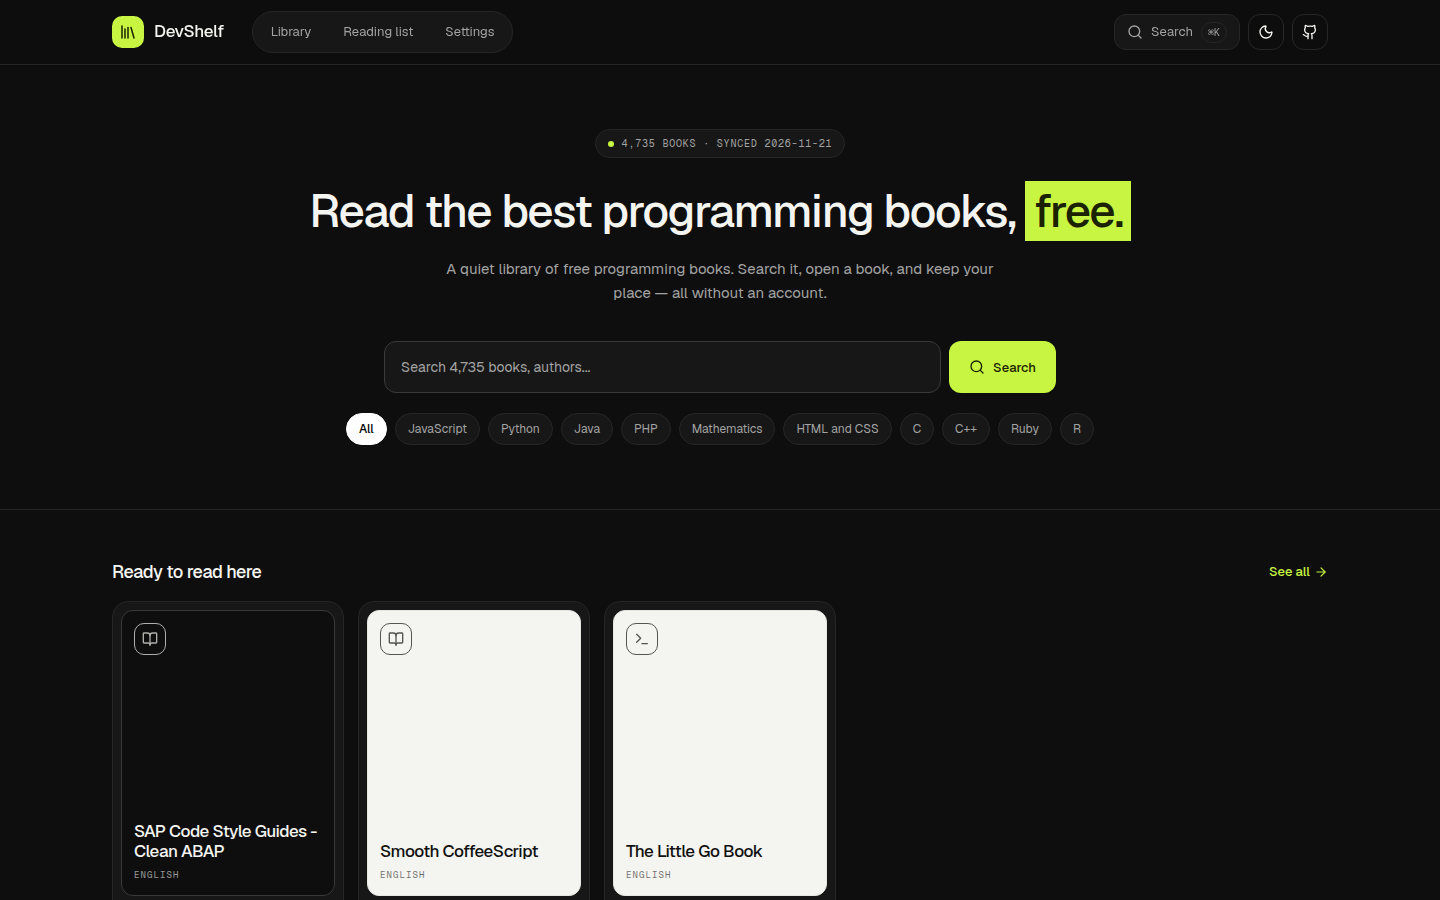
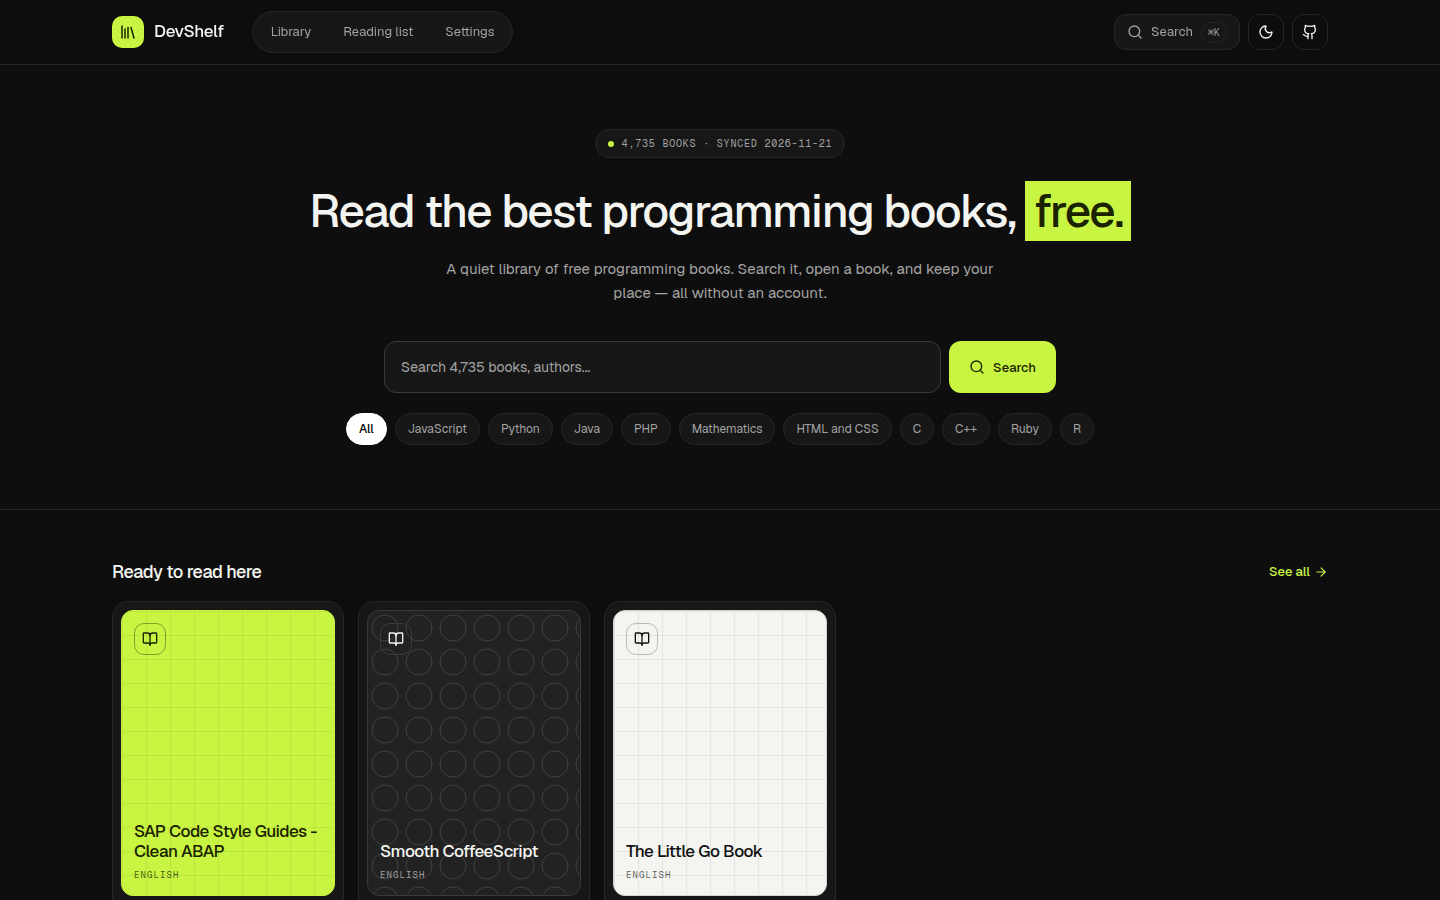
Align README with cover pipeline and current repo state

Changed region(s): [[0.0625, 0.6533, 0.4062, 0.9956], [0.4375, 0.6844, 0.4688, 0.7156]]

diff --git a/README.md b/README.md
@@ -17,7 +17,7 @@
   <img src="https://img.shields.io/badge/Next.js-16-black" alt="Next.js 16">
   <img src="https://img.shields.io/badge/TypeScript-strict-blue" alt="TypeScript strict">
   <img src="https://img.shields.io/badge/Tailwind-v4-38bdf8" alt="Tailwind CSS v4">
-  <img src="https://img.shields.io/badge/tests-8%20passing-brightgreen" alt="8 tests passing">
+  <img src="https://img.shields.io/badge/tests-16%20passing-brightgreen" alt="16 tests passing">
   <img src="https://img.shields.io/badge/static-export-orange" alt="Static export">
   <img src="https://img.shields.io/badge/data-CC%20BY%204.0-orange" alt="Data license CC BY 4.0">
   <img src="https://img.shields.io/badge/license-MIT-green" alt="MIT license">
@@ -44,10 +44,10 @@ Every record keeps its original URL, source file, line and heading. Titles, auth
 ## Screenshots
 
 <p align="center">
-  <img src="docs/screenshots/home.png" alt="DevShelf homepage with generated book covers" width="48%">
-  <img src="docs/screenshots/catalog.png" alt="Catalog with search, filters and typographic book cards" width="48%">
+  <img src="docs/screenshots/home.png" alt="DevShelf homepage with real and generated book covers" width="48%">
+  <img src="docs/screenshots/catalog.png" alt="Catalog with search, filters and real and generated covers" width="48%">
 </p>
-<p align="center"><sub>Homepage with live sync chip and generated covers · Catalog with 4,735 resources and local filters</sub></p>
+<p align="center"><sub>Homepage with live sync chip and book covers · Catalog with 4,735 resources, one real Open Library cover and local filters</sub></p>
 
 <p align="center">
   <img src="docs/screenshots/markdown-reader.png" alt="Markdown reader with table of contents and copyable code blocks" width="48%">
@@ -55,7 +55,7 @@ Every record keeps its original URL, source file, line and heading. Titles, auth
 </p>
 <p align="center"><sub>Markdown reader with 226-chapter TOC and code-block tools · PDF reader showing page 10 of 84</sub></p>
 
-All four images are captures of the deployed site at [hungpt99-dev.github.io/DevShelf](https://hungpt99-dev.github.io/DevShelf/), regenerated with `npm run capture:screenshots` after the UI restyle.
+All four images are captures of the current static export, regenerated with `npm run capture:screenshots http://127.0.0.1:4173/DevShelf` after the cover update. The live demo is deployed by the sync workflow; it may trail the latest commit until that workflow runs.
 
 ## Quick start
 
@@ -82,6 +82,7 @@ npm run validate:data # verify indexes, attribution and bundled content
 | --- | --- | --- |
 | **Ingest** | One pinned tarball of the upstream repository is parsed into normalized JSON; duplicates merge by stable ID. | Deterministic parser |
 | **Discover** | Local Fuse.js index powers instant search; filters cover language, category, format and reading availability. | Your query, in your browser |
+| **Covers** | Open Library matches are resolved at build time; strict title/author matching, generated art and a static SVG cover fill the gaps. | Validated match + your Settings toggle |
 | **Read** | Markdown, HTML and PDF providers render allowlisted content; everything else links to its original source. | Validated resource metadata |
 | **Remember** | Progress, bookmarks, list status and preferences are stored in Dexie/IndexedDB. | You, locally |
 | **Refresh** | A CI workflow detects upstream commits, validates data, commits changes and redeploys. | Upstream commit + schedule |
@@ -90,7 +91,7 @@ npm run validate:data # verify indexes, attribution and bundled content
 
 | Surface | Role | What it adds |
 | --- | --- | --- |
-| Home | Book-cover-first entry point | Sync chip, generated covers, catalog stats, deterministic featured shelves |
+| Home | Book-cover-first entry point | Sync chip, real or generated covers, catalog stats, deterministic featured shelves |
 | Explore | Full catalog | Search, filters, sort, availability, load-more, honest empty states |
 | Book detail | Provenance | Source file/line, license when stated, alternate links, related books |
 | Reader | Distraction-free reading | TOC, themes, font controls, keyboard nav, copyable code blocks, PDF zoom/pages, saved position |
@@ -107,6 +108,7 @@ npm run validate:data # verify indexes, attribution and bundled content
 | Unit tests | 16 passing | `npm test` |
 | Static build | exit code 0; 9,477 static pages | `npm run build` (output in `out/`) |
 | HTTP smoke checks | 21/21 | `npm run smoke` against a local `out/` server |
+| Cover matches in snapshot | 1 | `Object.keys(require("./public/data/covers.json")).length` |
 
 Counts are derived from the committed catalog snapshot, not typed into the UI. The homepage reads the same files.
 
@@ -119,6 +121,7 @@ Counts are derived from the committed catalog snapshot, not typed into the UI. T
 | `next.config.ts` | Static export and optional `NEXT_PUBLIC_BASE_PATH` for project Pages sites | [docs/DEPLOYMENT.md](docs/DEPLOYMENT.md) |
 | `public/data/*.json` | Generated catalog, categories, languages, readable map, metadata, sync history and cover URLs | [ARCHITECTURE.md](ARCHITECTURE.md) |
 | `scripts/cache/cover-misses.json` | Cover lookups that found no safe match; retried after 30 days or with `--force` | [docs/DATA_SOURCES.md](docs/DATA_SOURCES.md) |
+| `public/images/default-cover.svg` | Static last-resort cover when generation cannot run | [docs/DATA_SOURCES.md](docs/DATA_SOURCES.md) |
 | `docs/assets/` | Product mark and light/dark README banners | [README](#screenshots) |
 
 ## Automation
@@ -131,7 +134,7 @@ The sync workflow runs every 6 hours and on manual dispatch (`force=true` rebuil
 4. `npm run sync:covers` matches a bounded batch of new books against Open Library, caches misses and writes `public/data/covers.json`. A covers-only change still commits and redeploys.
 5. Except on forced manual runs, the dataset is committed and Pages are rebuilt only when records change. With `CLOUDFLARE_API_TOKEN` and `CLOUDFLARE_ACCOUNT_ID` set as repo secrets, the workflow also rebuilds for the site root and deploys to Cloudflare Pages (`devshelf-hungpt99`).
 
-Network or parse failures stop before any file is written, so the last known good dataset and deployment stay live. The app fetches only local static catalog files; it does not call GitHub or require API tokens at runtime. Outbound book links open the original resource in a new tab. No token is present in frontend code — credentials exist only in the Actions runner. Cloudflare setup details are in [docs/DEPLOYMENT.md](docs/DEPLOYMENT.md).
+Network or parse failures stop before any file is written, so the last known good dataset and deployment stay live. Catalog data comes only from same-origin static files; matched cover images come from Open Library when the Settings toggle is on. The app does not call GitHub or require API tokens at runtime. Outbound book links open the original resource in a new tab. No token is present in frontend code — credentials exist only in the Actions runner. Cloudflare setup details are in [docs/DEPLOYMENT.md](docs/DEPLOYMENT.md).
 
 ## Documentation
 
@@ -147,18 +150,21 @@ Network or parse failures stop before any file is written, so the last known goo
 ```mermaid
 flowchart LR
   A["EbookFoundation catalog"] -->|"6h / manual"| B["sync-books.ts"]
+  J["Open Library search"] -->|"cover match"| K["fetch-covers.ts"]
+  K --> C
   B --> C["public/data/*.json"]
   B --> D["public/content (allowlist)"]
   C --> E["Next.js static export"]
   D --> E
   E --> F["GitHub Pages"]
   E -.->|"optional"| I["Cloudflare Pages"]
+  E -.->|"cover images, when enabled"| L["covers.openlibrary.org"]
   F --> G["Browser: catalog, search, reader"]
   I --> G
   G --> H[("IndexedDB (local only)")]
 ```
 
-**Boundary rule:** the frontend fetches only same-origin static files. Catalog writes happen in CI; user state writes happen only in IndexedDB. Neither side calls the other at runtime.
+**Boundary rule:** catalog JSON and generated art come from same-origin static files; cover images are the one intentional third-party request, and only when enabled. Catalog writes happen in CI; user state writes happen only in IndexedDB. Neither side calls the other at runtime.
 
 ## Status
 
@@ -172,8 +178,9 @@ flowchart LR
 | PDF reader | **Implemented** — canvas pages, zoom, fullscreen, saved page; no text-selection layer yet |
 | External resources | **Implemented** — detail page links to the original source; never scraped |
 | Progress, bookmarks, preferences, export/import | **Implemented** — Dexie/IndexedDB, no account |
-| Scheduled sync + conditional GitHub Pages deploy | **Implemented** — Pages live on the current head |
-| Real cover images | **Partial** — strict Open Library matches only; generated covers fill every gap |
+| Scheduled sync + conditional GitHub Pages deploy | **Implemented** — Pages live on the last deployed head; current head awaits the next workflow run |
+| Real cover images | **Partial** — strict Open Library matching; one match in the committed snapshot, generated covers fill the rest |
+| Cover fallback chain | **Implemented** — real image → generated art → static default SVG; verified on image error, 1×1 responses, empty titles and opt-out |
 | Recently added shelf | **Implemented** — real sync history; honest empty state when a sync adds nothing |
 | Cloudflare Pages deploy | **Partial** — secrets and steps are wired, but the deploy fails with auth code 10000 until the token also has `User → User Details:Read` and `User → Memberships:Read` |
 | PDF text layer and annotations | **Not implemented** — canvas rendering only; page navigation works |
@@ -204,13 +211,14 @@ npm start            # or: node scripts/serve-static.mjs out 4173 /DevShelf
 
 ## Evidence
 
-- GitHub Actions: green sync/deploy run `44887877659` on the pre-restyle head; run `44889512574` deployed the restyled site to GitHub Pages, then failed only at the optional Cloudflare step (token permissions, see Status).
-- The live GitHub Pages URL serves the restyled homepage, catalog and PDF reader (checked after the deploy).
-- `npm run smoke` against the served static export: 21/21 checks.
+- GitHub Actions: green sync/deploy run `44887877659` on an earlier head; run `44889512574` deployed the restyled site to GitHub Pages, then failed only at the optional Cloudflare step (token permissions, see Status). The current head `9de5f4c` has not had its own workflow run yet.
+- Local static export verified with `npm run build` (exit 0, 9,477 pages) and `npm run smoke` (21/21). The live demo serves the last deployed sync; the cover dataset is in the repo and will appear after the next workflow deploy.
 - Browser verification: 4,735 resources load; Markdown, HTML and PDF readers render; progress survives reload; settings export/import round-trips; light/dark themes and the 375/768/1280 layouts were reviewed.
+- Cover verification: a real Open Library image loads, aborted and 1×1 responses fall back to generated art, an empty title uses the static SVG, and turning the setting off produced zero Open Library requests.
 
 ## Roadmap
 
+- Run the sync workflow once on the current head to publish the cover dataset to GitHub Pages.
 - Grant the missing Cloudflare token permissions and rerun the workflow with `force=true`.
 - PDF text layer and annotation rendering.
 - Expand the reading allowlist with more explicitly licensed source-linked books.
@@ -218,4 +226,4 @@ npm start            # or: node scripts/serve-static.mjs out 4173 /DevShelf
 
 ## License
 
-DevShelf source code is [MIT licensed](LICENSE). The upstream catalog is [CC BY 4.0](https://creativecommons.org/licenses/by/4.0/); each bundled book keeps its own license and attribution, shown in the reader. See [docs/DATA_SOURCES.md](docs/DATA_SOURCES.md).
+DevShelf source code is [MIT licensed](LICENSE). The upstream catalog is [CC BY 4.0](https://creativecommons.org/licenses/by/4.0/); each bundled book keeps its own license and attribution, shown in the reader. Cover images are courtesy of [Open Library](https://openlibrary.org/). See [docs/DATA_SOURCES.md](docs/DATA_SOURCES.md).
